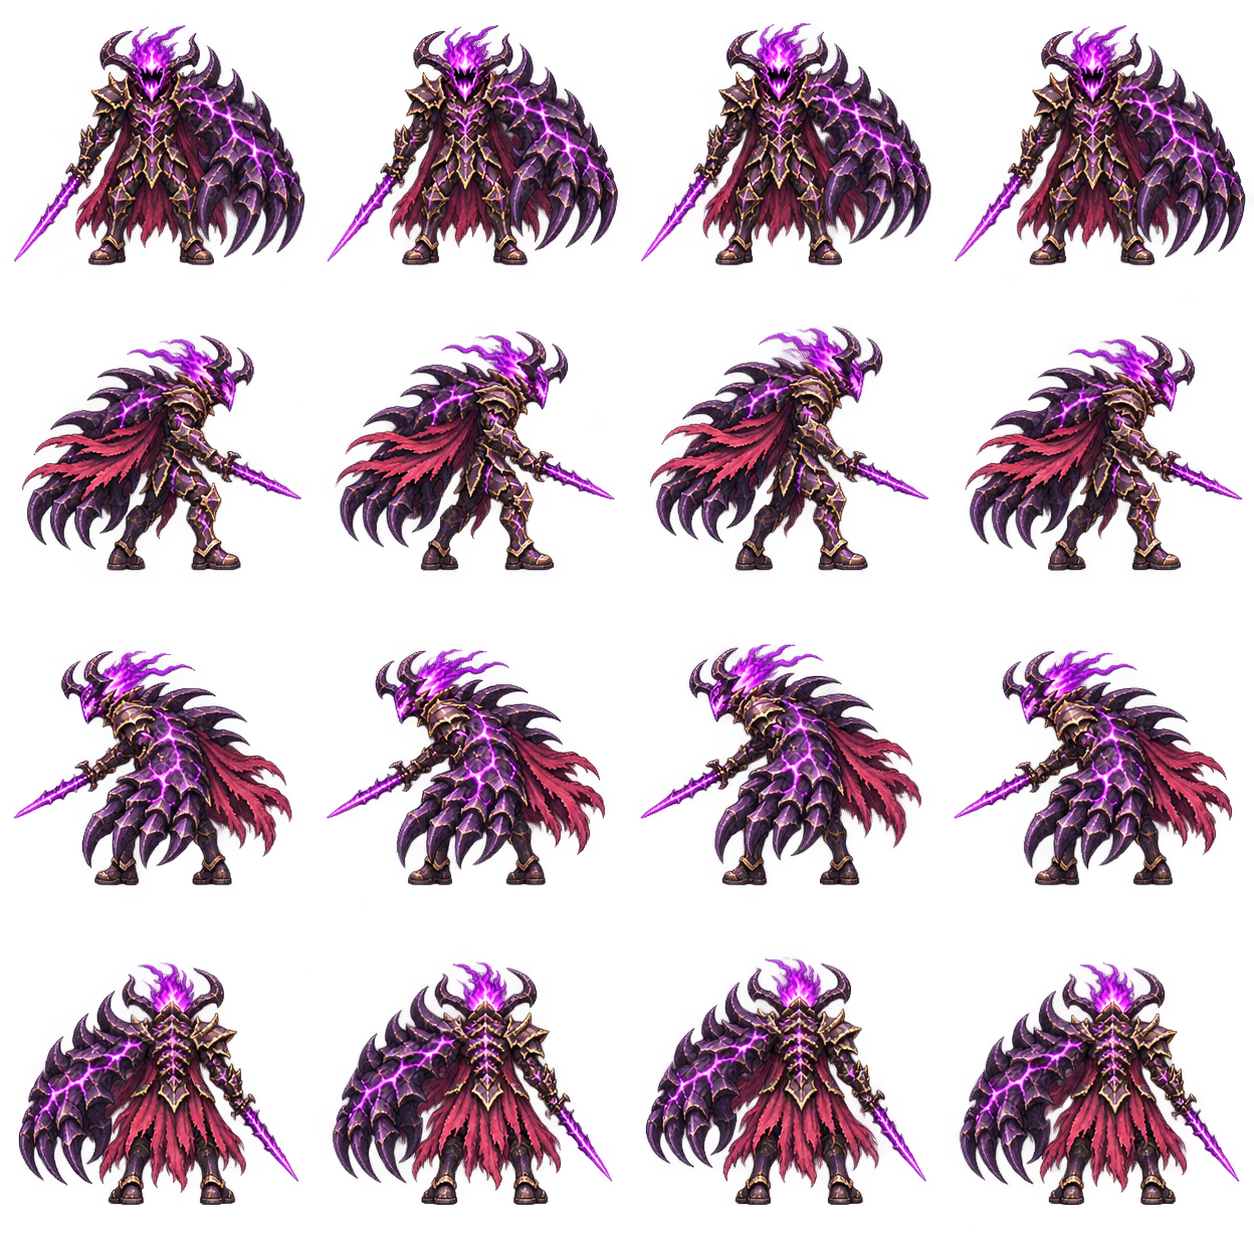
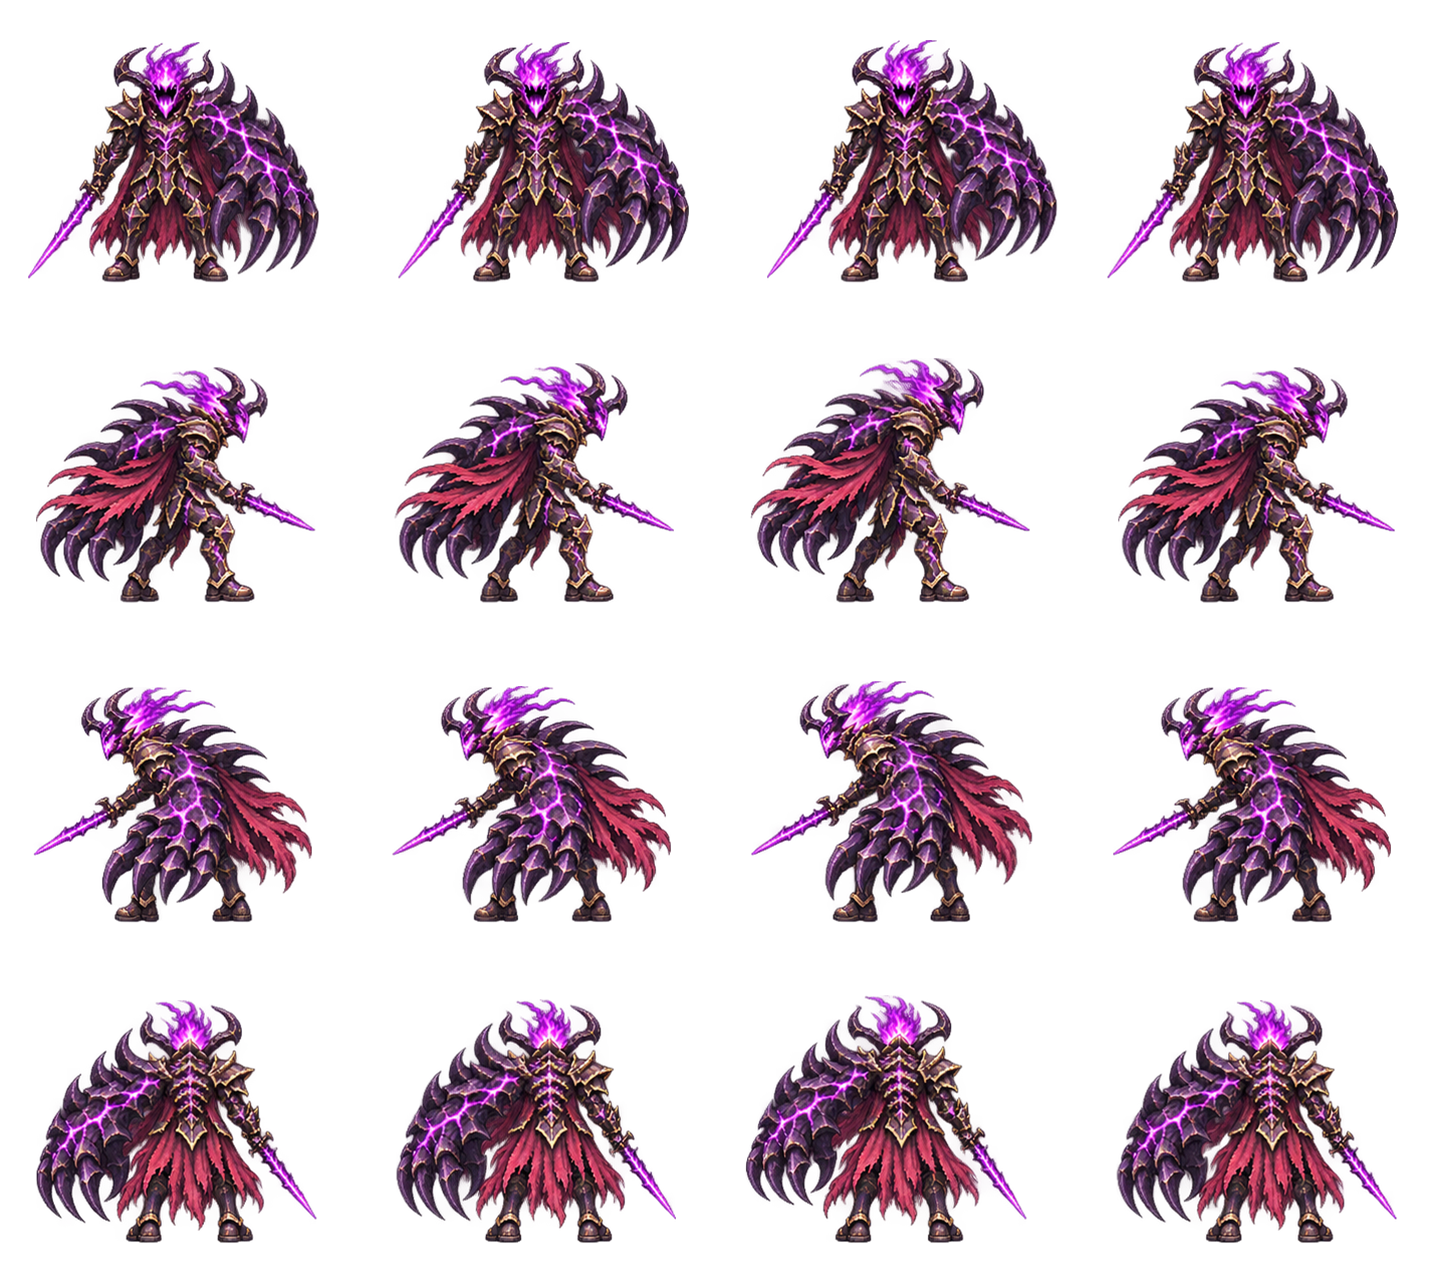
Ajustes nas sprites do igris

diff --git a/src/enemy.c b/src/enemy.c
@@ -2254,7 +2254,7 @@ static void DrawIgrisEclipsePose(Texture2D art, int frame, int row, Vector2 feet
         {96,259,431,611,814,1029,1243,1446},
     };
     int left = edges[row][frame], width = edges[row][frame+1]-left;
-    const float scale = .80f;
+    const float scale = .85f;
     DrawTexturePro(art,(Rectangle){left,row*256,width,256},
                    (Rectangle){feet.x,feet.y,width*scale,256*scale},
                    (Vector2){(body[row][frame]-left)*scale,239*scale},0,tint);
@@ -2326,14 +2326,14 @@ static void DrawIgris(const EnemyGroup *group, const Enemy *enemy) {
             int cel = t < IGRIS_ECHO_PLANT ? 0 : t >= IGRIS_ECHO_FADE ? 5 :
                 t < IgrisEchoLaunch(0) ? 1 : t < IgrisEchoLaunch(1) ? 2 : t < IgrisEchoLaunch(2) ? 3 : 4;
             DrawIgrisCell(group->igrisArt[IGRIS_ECHO_ART],6,4,cel,IgrisRow(IGRIS_FINAL_MELEE,facing),
-                          feet,238,.5f,.85f,false,0,WHITE);
+                          feet,245,.5f,.88f,false,0,WHITE);
             return;
         }
         if (skill == IGRIS_Z_RIP) {
             int cel = 0;
             while (cel < 11 && enemy->stateTime >= igrisZFrames[cel+1]) cel++;
             DrawIgrisCell(group->igrisArt[IGRIS_Z_DOWN+facing],4,3,cel%4,cel/4,
-                          feet,248,.5f,.88f,false,0,WHITE);
+                          feet,272,.5f,.88f,false,0,WHITE);
             return;
         }
         if (skill == IGRIS_ABYSS_GRAB) {
@@ -2341,7 +2341,7 @@ static void DrawIgris(const EnemyGroup *group, const Enemy *enemy) {
             int cel = t < .22f ? 0 : t < .40f ? 1 : t < IGRIS_GRAB_IMPACT ? 2 :
                 t < .78f ? 3 : t < IGRIS_GRAB_RELEASE ? 4 : 5;
             DrawIgrisCell(group->igrisArt[IGRIS_GRAB_ART],6,4,cel,IgrisRow(IGRIS_FINAL_MELEE,facing),
-                          feet,238,.5f,.82f,false,0,WHITE);
+                          feet,272.2f,.5f,.84f,false,0,WHITE);
             return;
         }
         art = igrisSkills[skill].art;
@@ -2356,10 +2356,10 @@ static void DrawIgris(const EnemyGroup *group, const Enemy *enemy) {
     bool flip = (art <= IGRIS_MELEE_ART && facing == 3) ||
                 (art == IGRIS_SPEARS_ART && facing == 2);
     float anchorX = .50f;
-    float ground = enemy->igrisFinalForm ? .84f : art == IGRIS_SPEARS_ART && facing == 0 ? .84f : .94f;
-    if (enemy->igrisFinalForm && art == IGRIS_FINAL_WALK && facing == 0) ground = .92f;
-    float drawHeight = enemy->igrisFinalForm ? (art == IGRIS_FINAL_MELEE ? 243.0f : 238.0f) :
-                       (art == IGRIS_MELEE_ART ? 213.75f : 190.0f);
+    float ground = enemy->igrisFinalForm ? .88f : (art == IGRIS_SPEARS_ART ? .78f : .94f);
+    float drawHeight = enemy->igrisFinalForm ? 245.0f :
+                       (art == IGRIS_SPEARS_ART ? 237.5f :
+                        (art == IGRIS_MELEE_ART || art == IGRIS_ERUPTION_ART) ? 213.75f : 190.0f);
     bool fallen = enemy->state == ENEMY_FALLEN;
     float fall = fallen ? 1 : enemy->state == ENEMY_DIE ? Clamp(enemy->stateTime/1.2f,0,1) : 0;
     if (fallen) DrawBossGroundSeal(group->sealMarker,feet);
